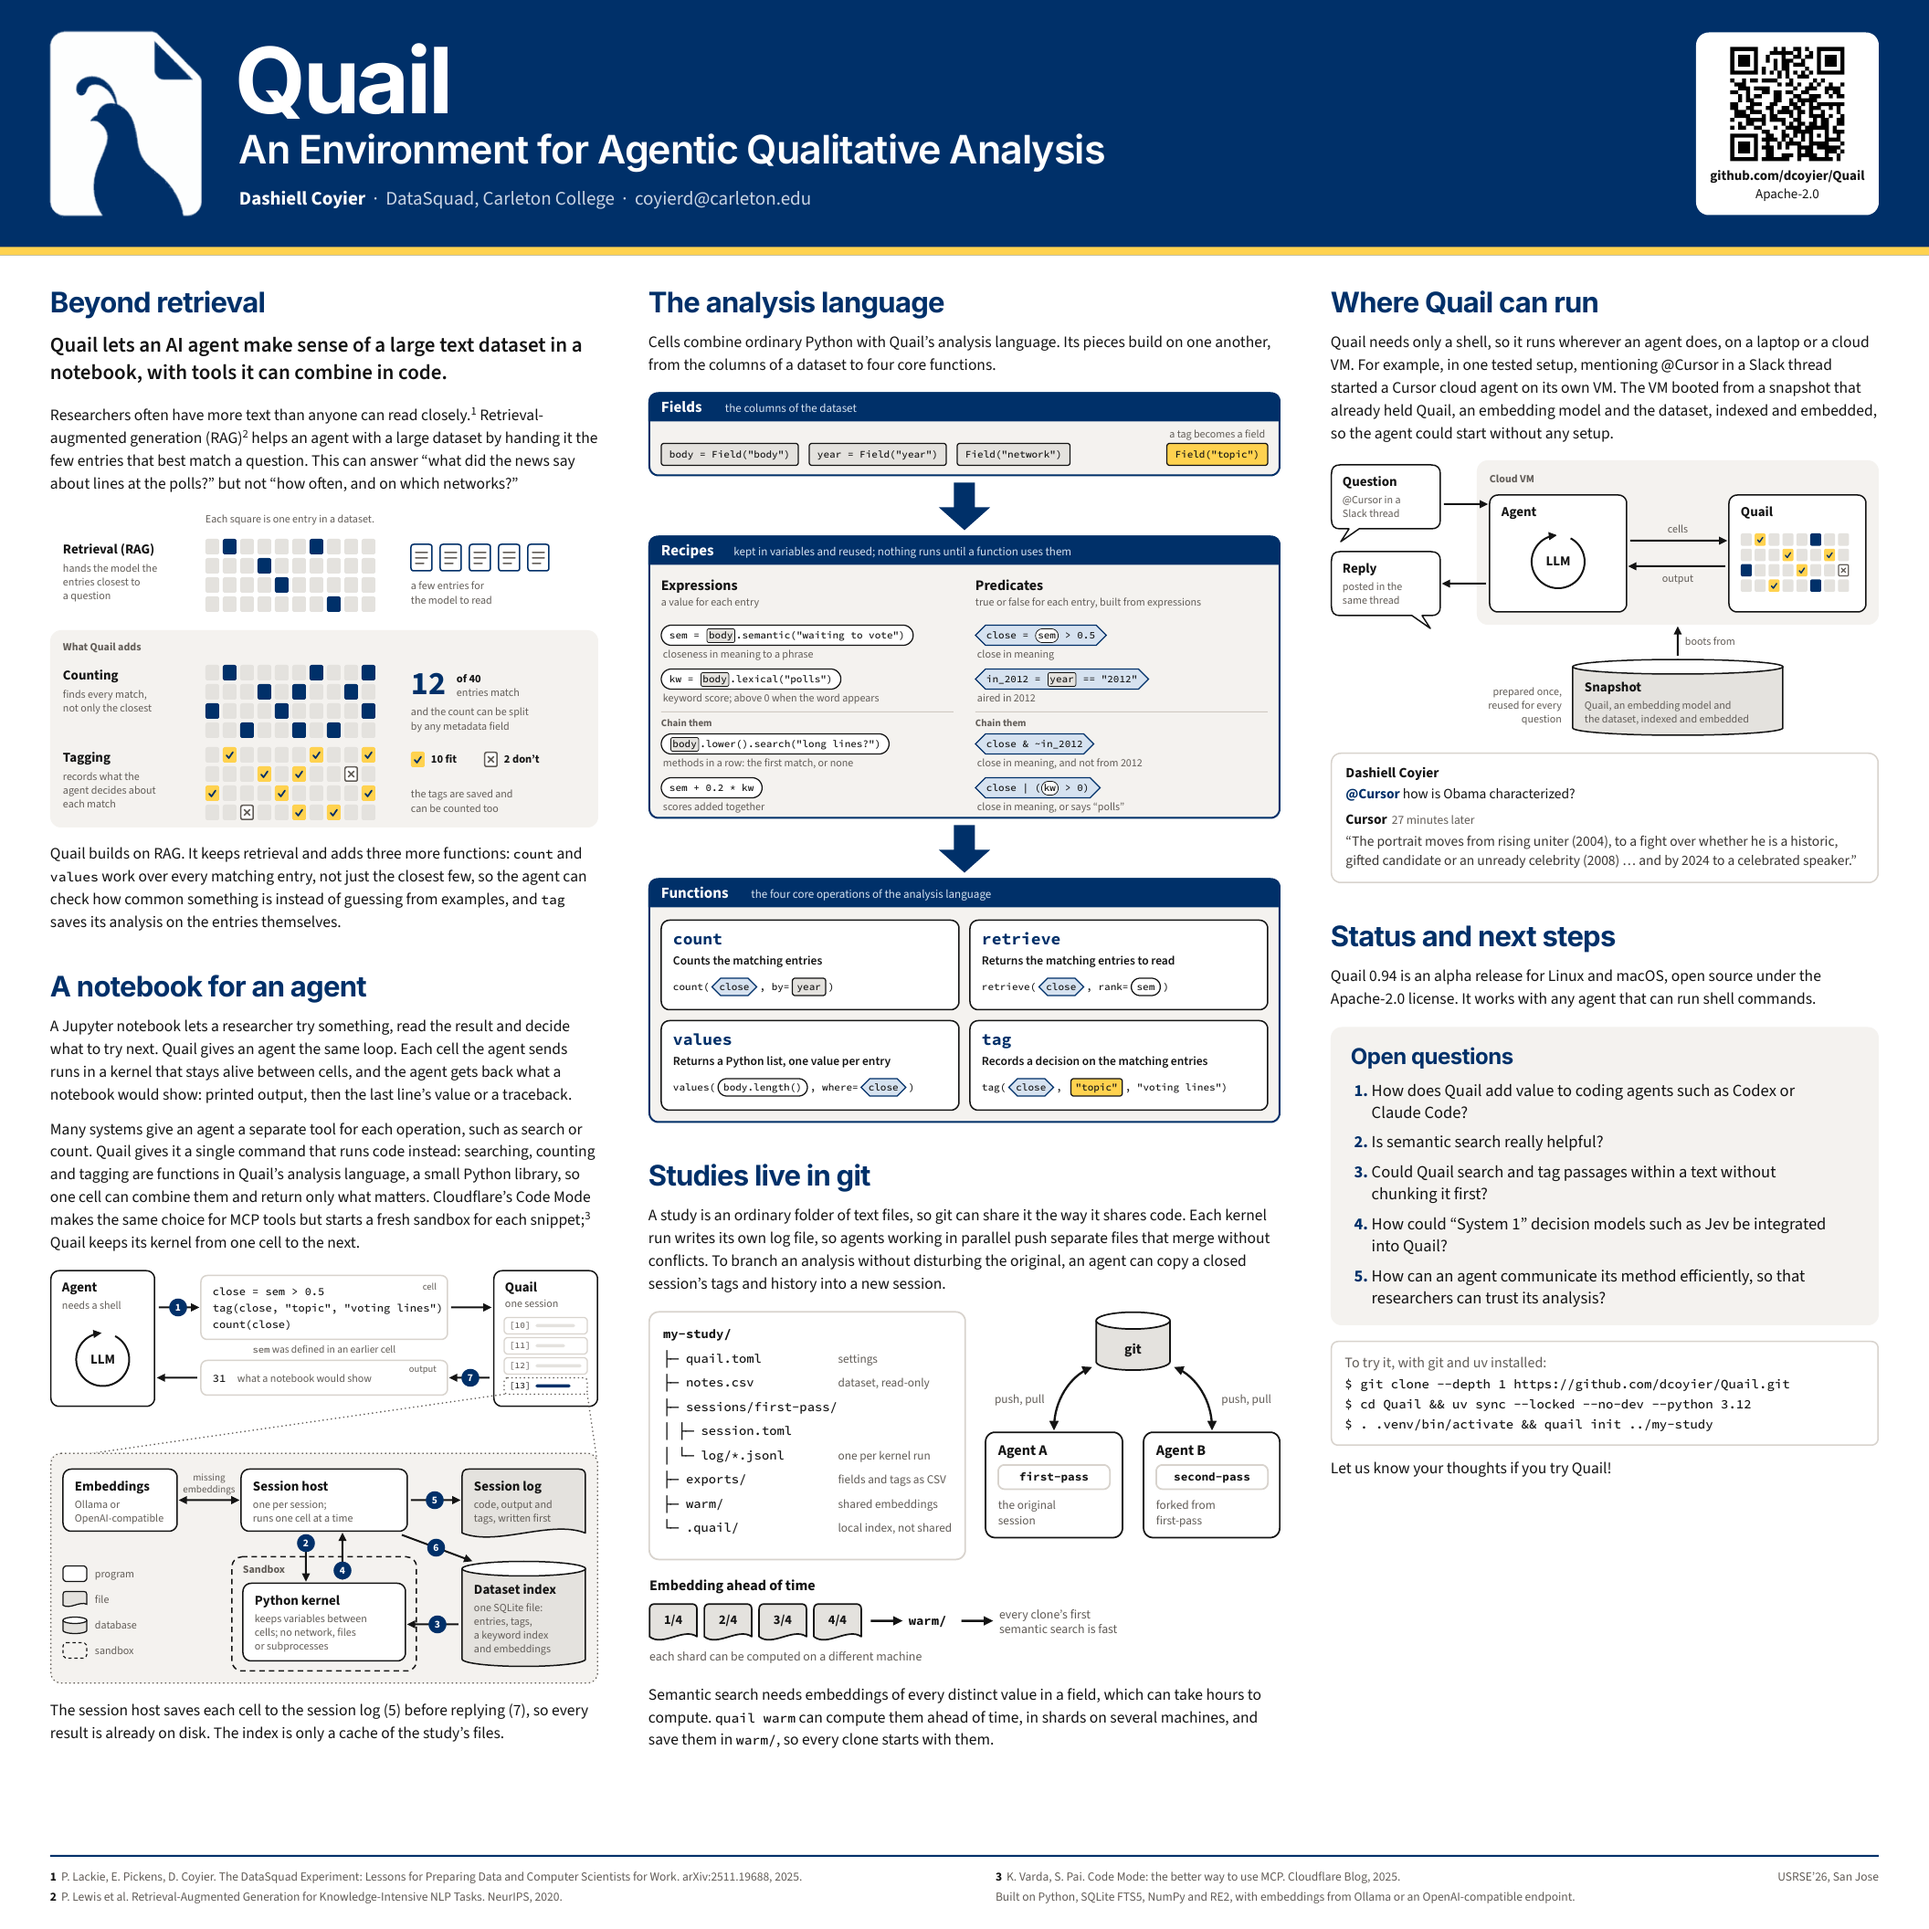
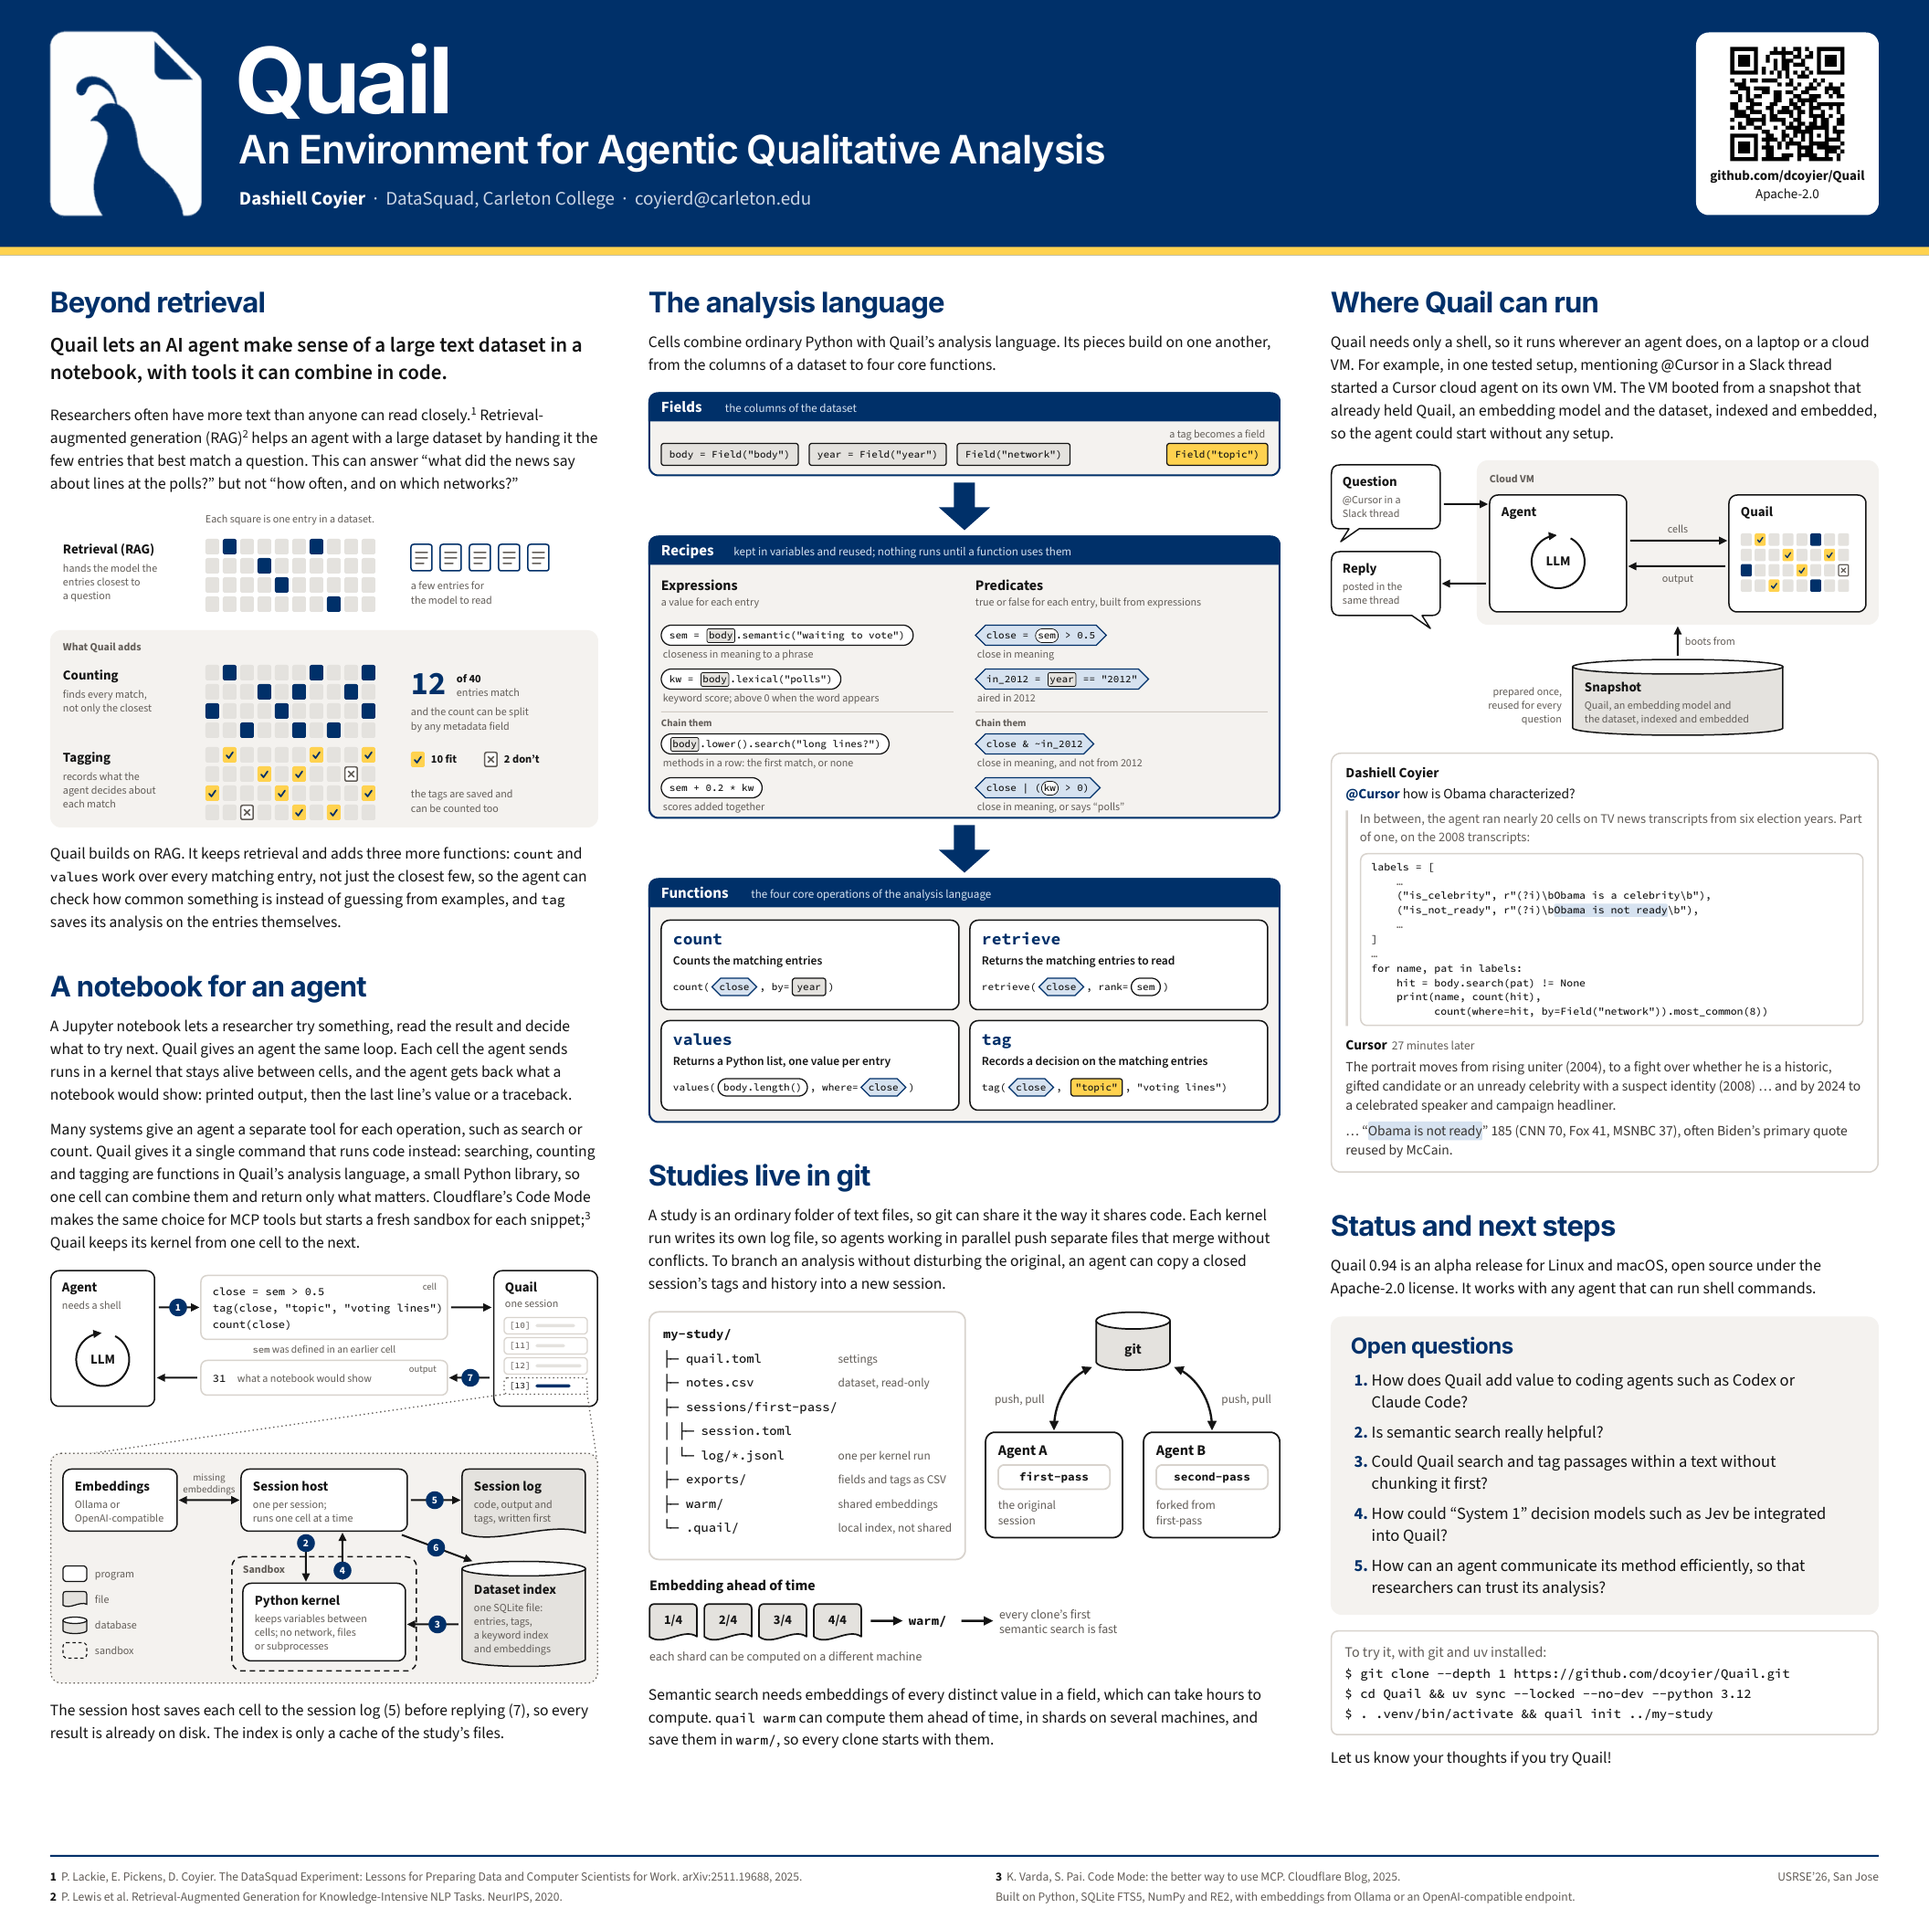
Show one of the agent's real cells in the Slack example
The Slack card now runs question, work, reply. Between them sits part of a
cell the Cursor agent ran on the 2008 transcripts, copied from its
transcript with elisions marked, and the reply quotes the line that cell's
count produced. "Obama is not ready" is highlighted in both. The summary
quote also gets back the words it had dropped without marking.

Claude-Session: https://claude.ai/code/session_01ChZ8DmmKvsKSV4JFVieZLU

Changed region(s): [[0.6875, 0.4062, 0.9688, 0.9062]]

diff --git a/poster/poster.html b/poster/poster.html
@@ -68,8 +68,23 @@
   <div class="thread">
     <div><span class="who">Dashiell Coyier</span></div>
     <p class="q"><span class="mention">@Cursor</span> how is Obama characterized?</p>
+    <div class="work">
+      <p>In between, the agent ran nearly 20 cells on TV news transcripts from six election years. Part of one, on the 2008 transcripts:</p>
+      <div class="cell"><pre>labels = [
+    <span class="el">&hellip;</span>
+    ("is_celebrity", r"(?i)\bObama is a celebrity\b"),
+    ("is_not_ready", r"(?i)\b<span class="hl">Obama is not ready</span>\b"),
+    <span class="el">&hellip;</span>
+]
+<span class="el">&hellip;</span>
+for name, pat in labels:
+    hit = body.search(pat) != None
+    print(name, count(hit),
+          count(where=hit, by=Field("network")).most_common(8))</pre></div>
+    </div>
     <div><span class="who">Cursor</span><span class="meta">27 minutes later</span></div>
-    <p class="a">&ldquo;The portrait moves from rising uniter (2004), to a fight over whether he is a historic, gifted candidate or an unready celebrity (2008)&nbsp;&hellip; and by 2024 to a celebrated speaker.&rdquo;</p>
+    <p class="a">The portrait moves from rising uniter (2004), to a fight over whether he is a historic, gifted candidate or an unready celebrity with a suspect identity (2008)&nbsp;&hellip; and by 2024 to a celebrated speaker and campaign headliner.</p>
+    <p class="a">&hellip; &ldquo;<span class="hl">Obama is not ready</span>&rdquo; 185 (CNN 70, Fox 41, MSNBC 37), often Biden&rsquo;s primary quote reused by McCain.</p>
   </div>
 </section>
 

diff --git a/poster/poster.css b/poster/poster.css
@@ -20,6 +20,7 @@
   --fill-2: #E4E2DE;
   --blue: #003069;    /* Carleton Blue, PMS 294 */
   --maize: #FFD24F;   /* Carleton Maize, PMS 120 */
+  --tint: #D6E2F0;    /* matched text, as in the predicate chips */
   --pad: 110px;
   --gap: 110px;
   --sans: "Source Sans 3", sans-serif;
@@ -173,6 +174,11 @@ table.lang td:first-child { width: 600px; padding-right: 24px; font-family: var(
 .thread .q { margin: 2px 0 14px; }
 .thread .a { margin: 4px 0 0; color: var(--ink-2); }
 .thread .mention { font-weight: 700; color: var(--blue); }
+.thread .a + .a { margin-top: 12px; }
+.thread .work { margin: 6px 0 22px; padding-left: 26px; border-left: 5px solid var(--rule); }
+.thread .work p { margin: 0 0 14px; color: var(--muted); font-size: 29px; line-height: 1.36; }
+.thread .cell pre { font-size: 23px; padding: 12px 22px; }
+.hl { background: var(--tint); border-radius: 4px; }
 
 /* open questions, set apart to invite conversation */
 .questions {
